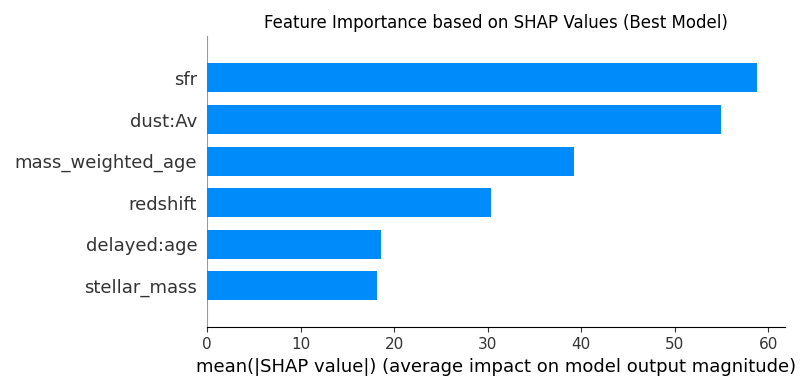
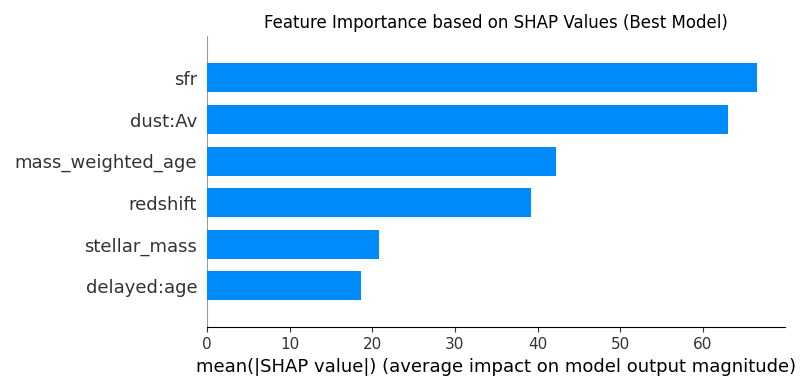
changed SNR_THRESHOLD to 5.3

diff --git a/Model.py b/Model.py
@@ -16,7 +16,7 @@ RANDOM_SEED = 42
 
 # Data Quality Cut Thresholds
 CHISQ_PHOT_THRESHOLD = 100
-SNR_THRESHOLD = 5.5
+SNR_THRESHOLD = 5.3
 TARGET_EW_R_THRESHOLD = 500
 
 # Final set of features determined through iteration
